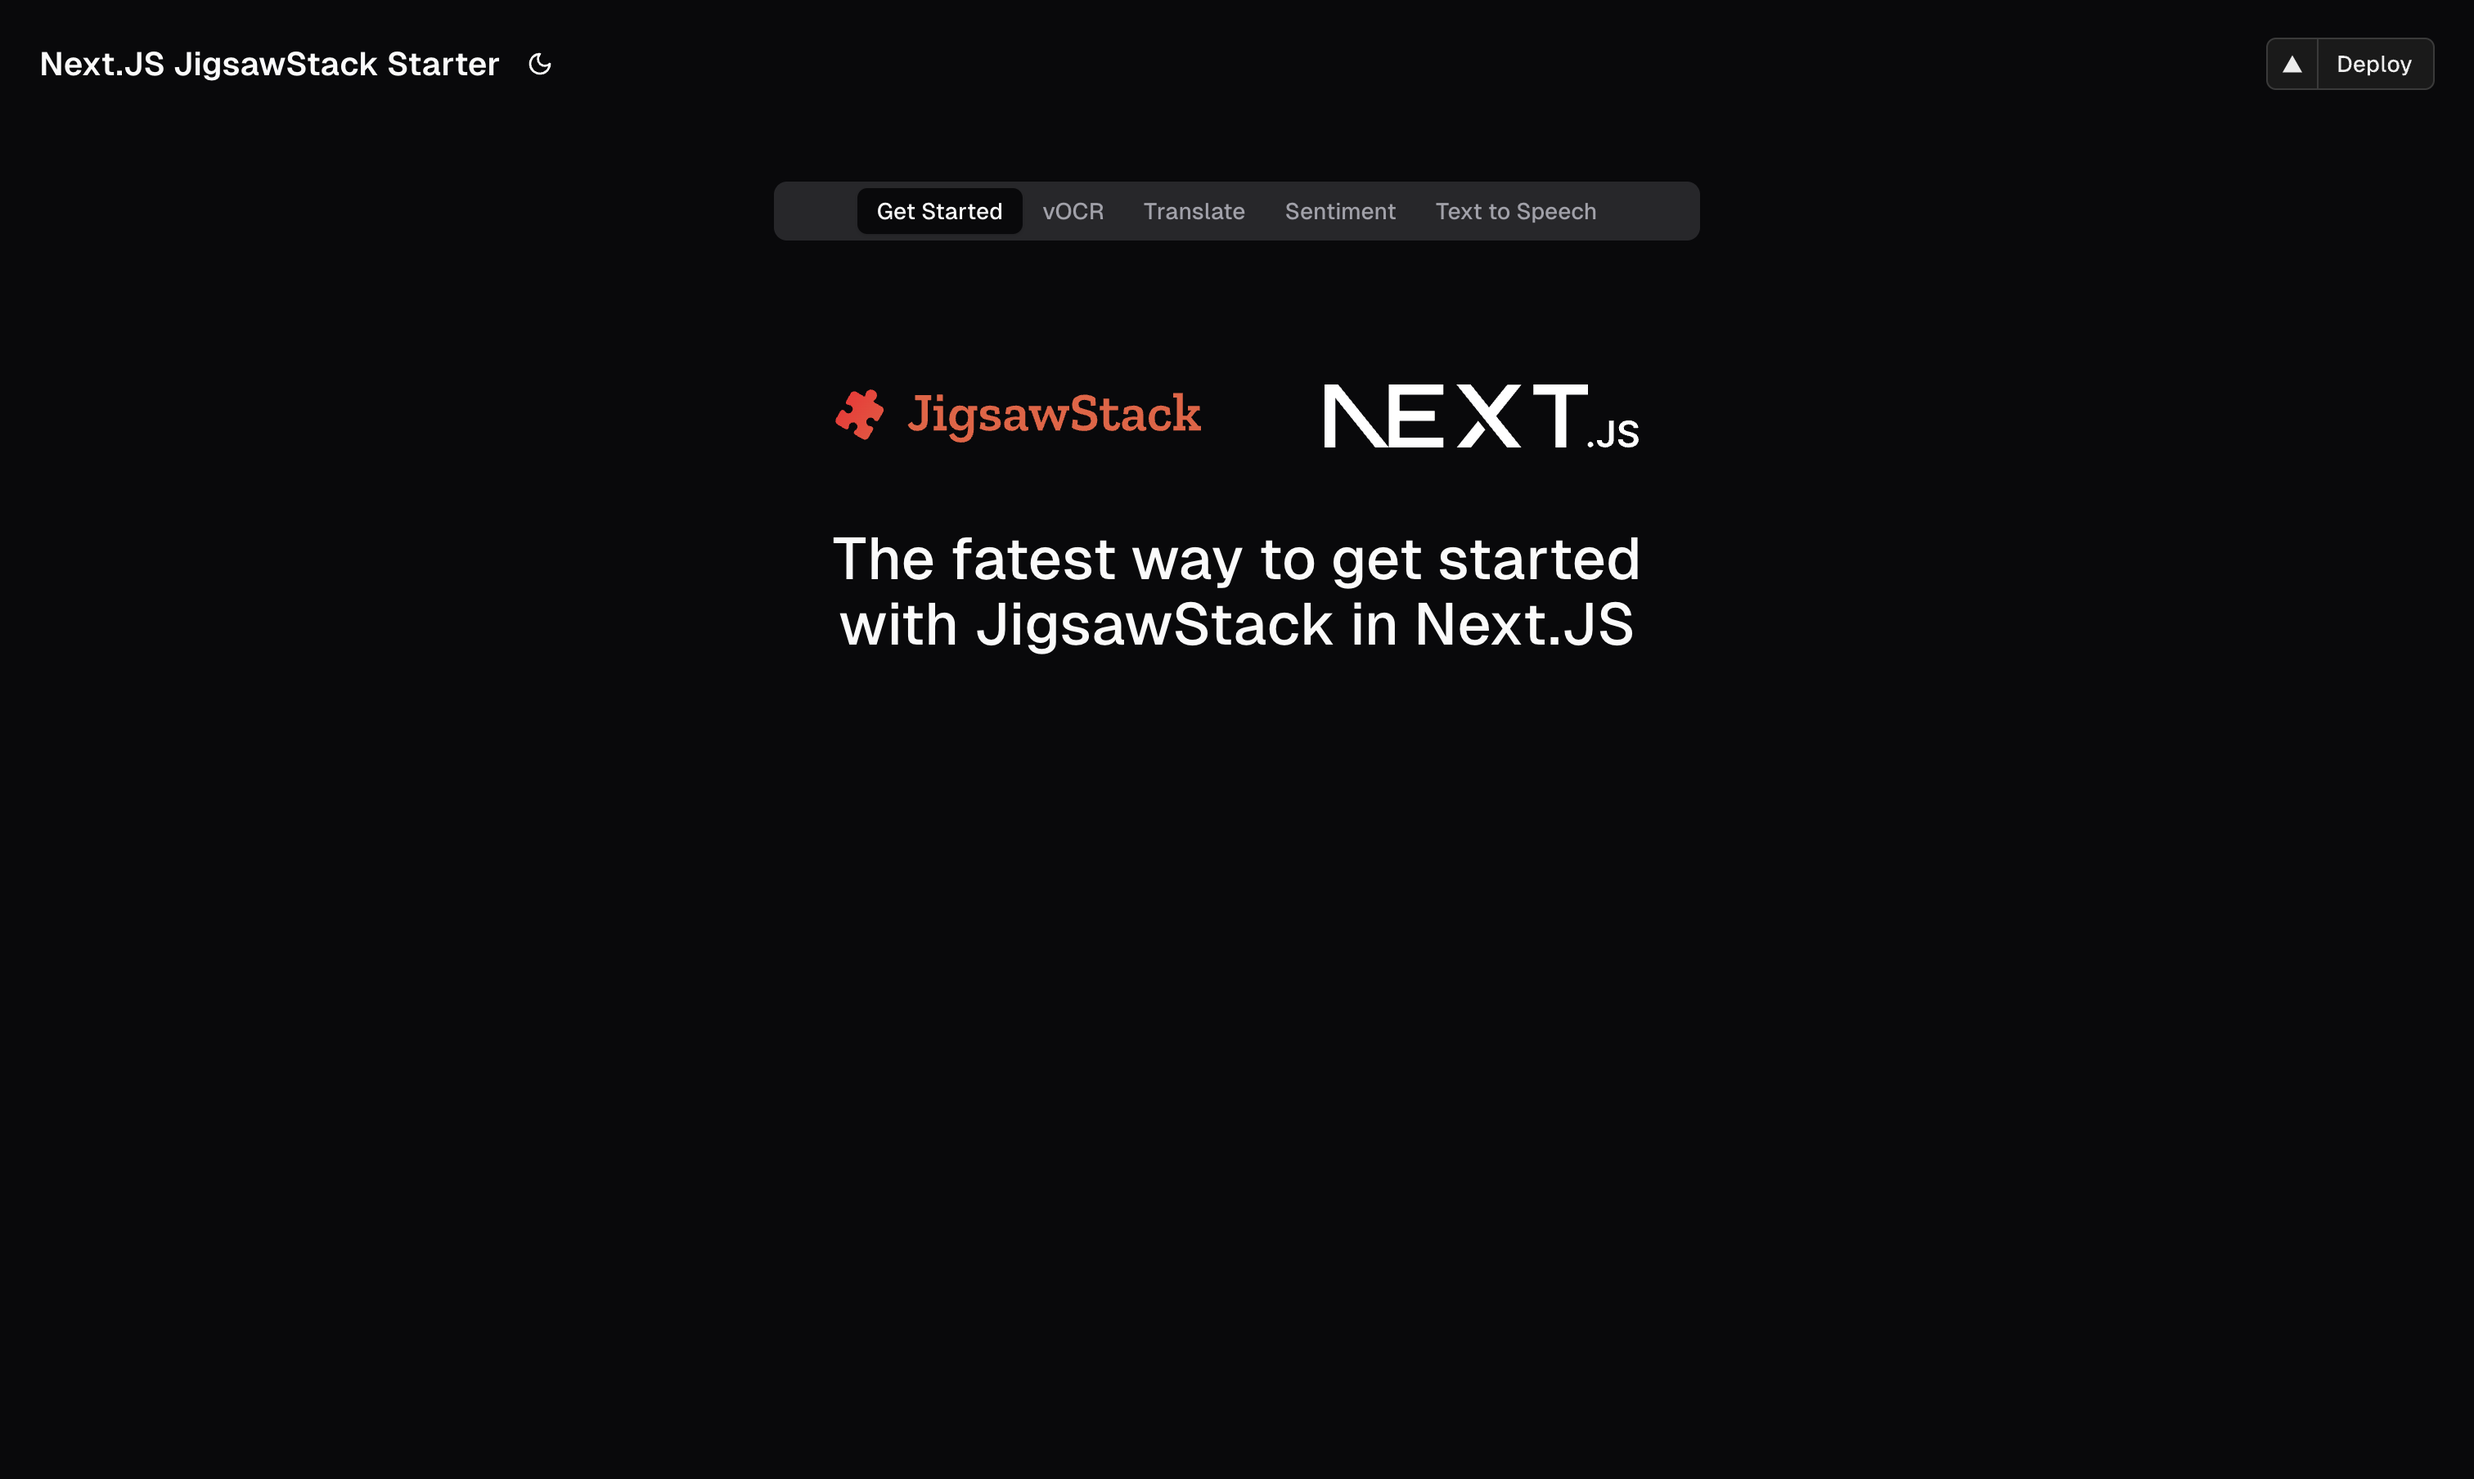
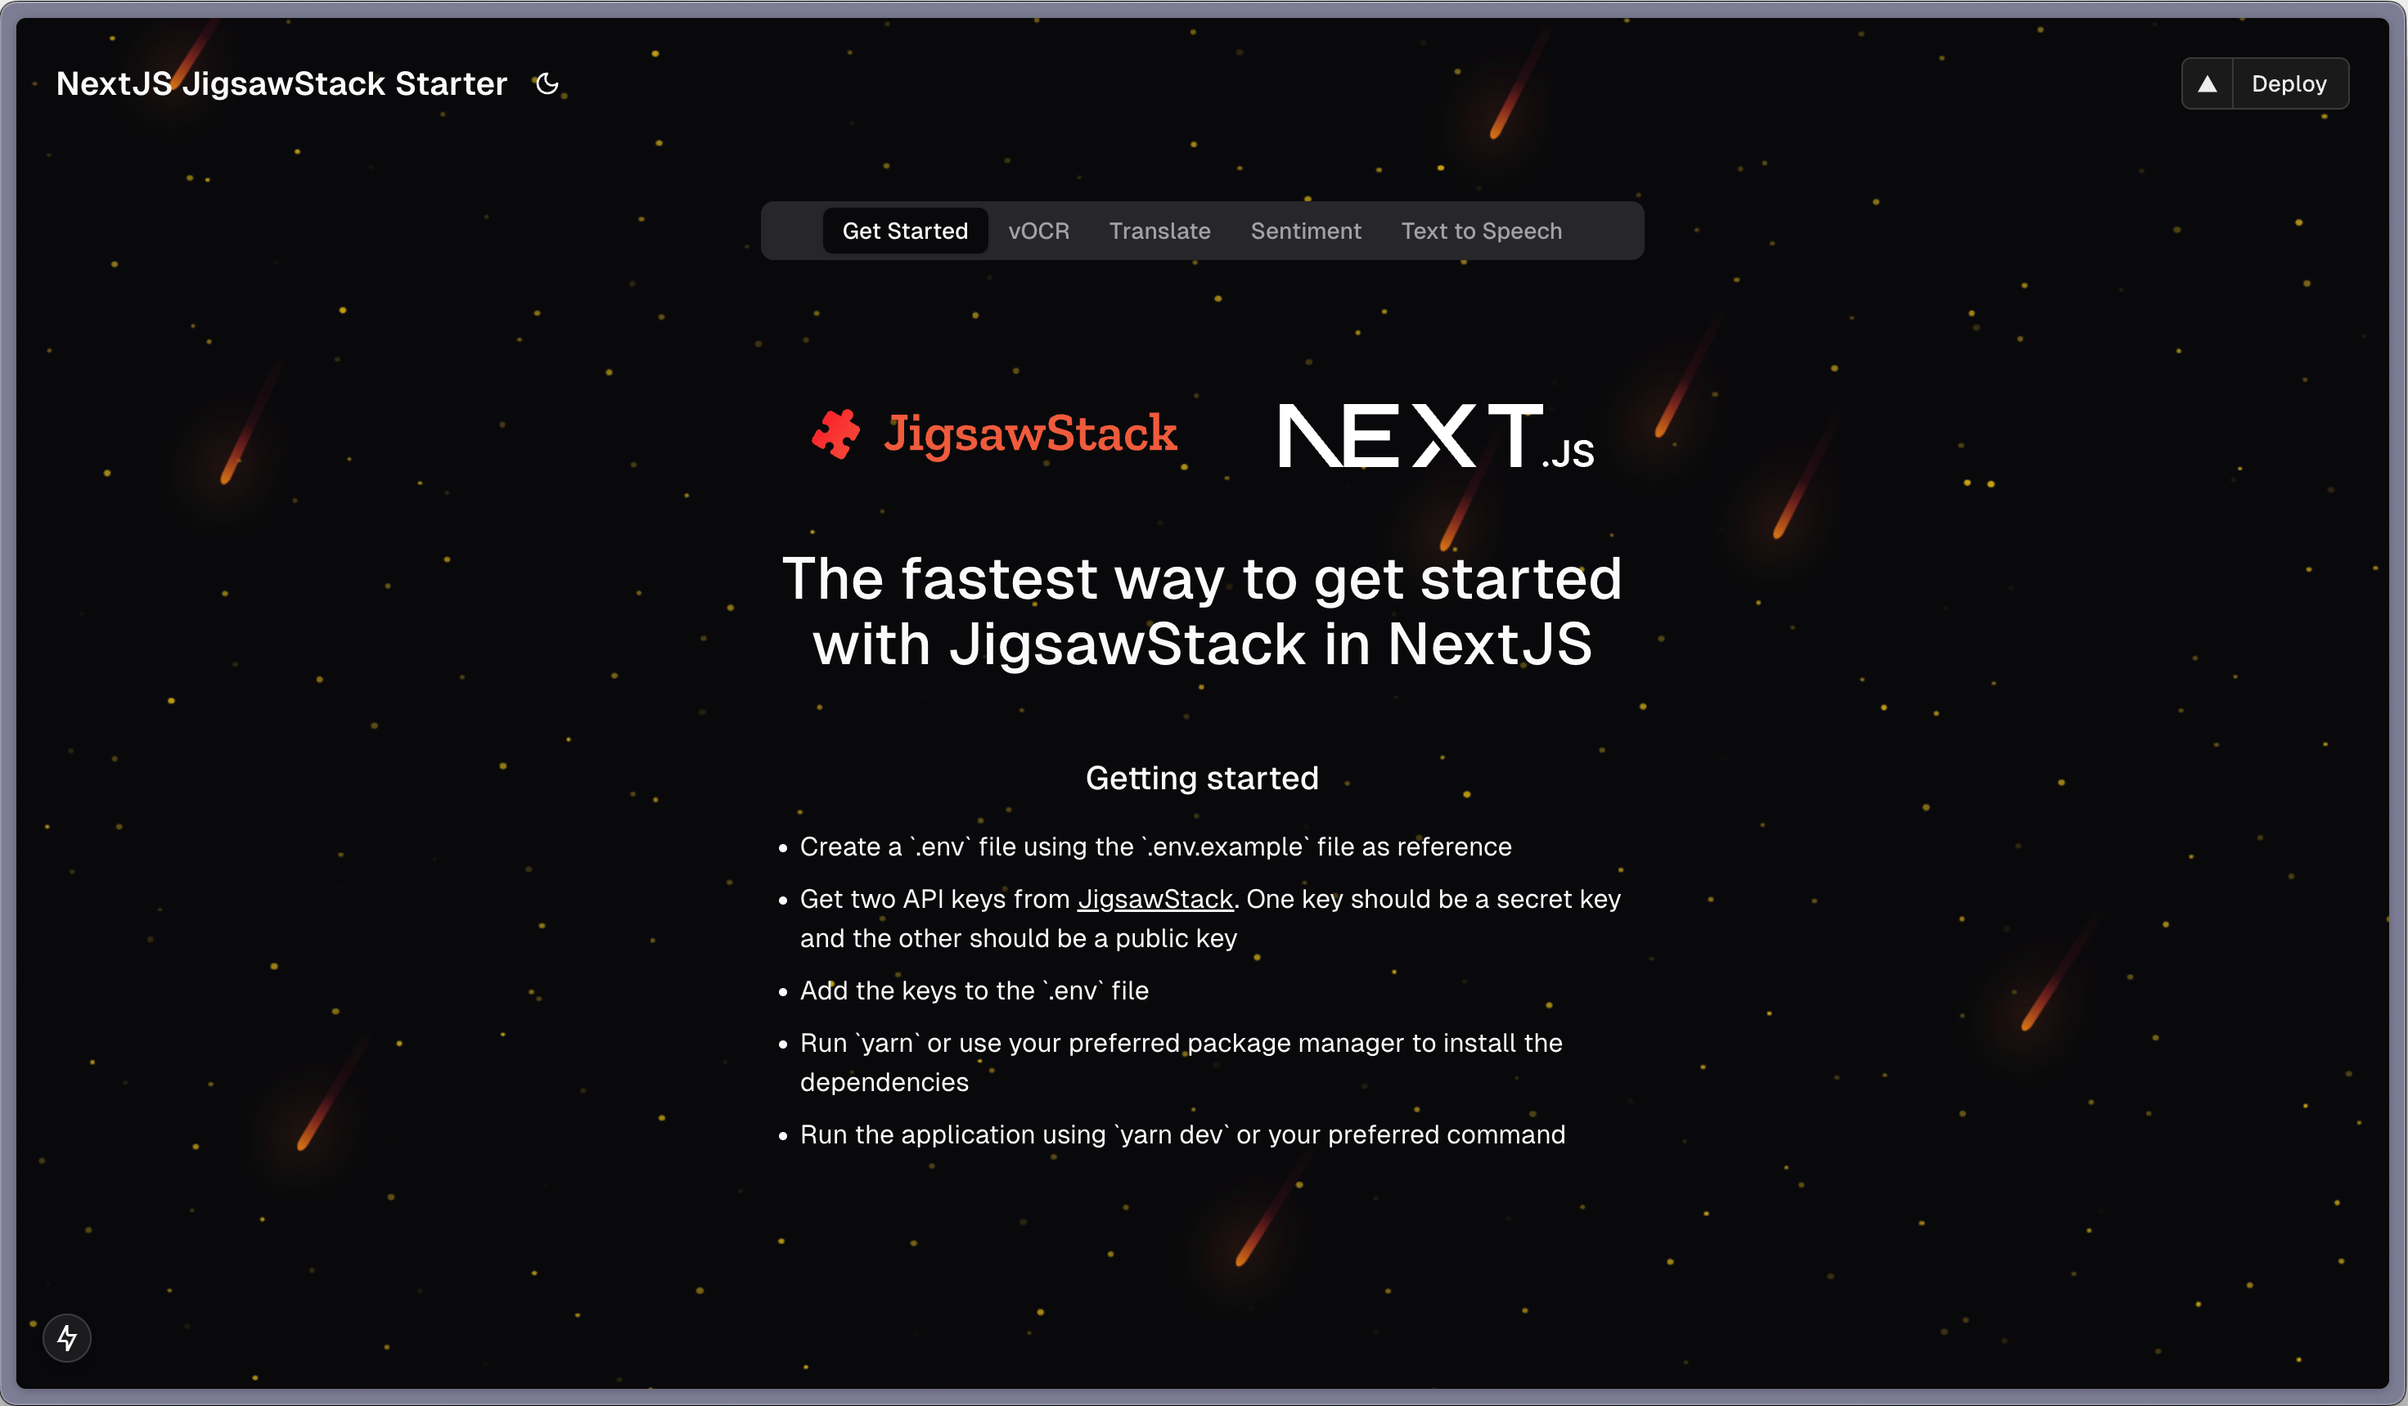
update wording

diff --git a/app/page.tsx b/app/page.tsx
@@ -7,11 +7,11 @@ import TTSExample from "@/components/examples/TTSExample";
 
 export default function Home() {
   return (
-    <div className="flex flex-col w-full min-h-screen font-[family-name:var(--font-geist-sans)]">
+    <div className="flex flex-col w-full min-h-screen font-[family-name:var(--font-geist-sans)] bg-[url('/bg.png')] bg-cover bg-center">
       {/* Header navigation */}
       <header className="flex justify-between items-center p-4 lg:p-6">
         <div className="flex items-center">
-          <h1 className="text-md lg:text-xl font-semibold mr-2">Next.JS JigsawStack Starter</h1>
+          <h1 className="text-md lg:text-xl font-semibold mr-2">NextJS JigsawStack Starter</h1>
           <ColorModeToggle />
         </div>
         <a href="https://vercel.com/new/clone?repository-url=https%3A%2F%2Fgithub.com%2FJigsawStack%2Fjigsawstack-vercel-template&env=NEXT_PUBLIC_JIGSAWSTACK_PUBLIC_KEY">

diff --git a/README.md b/README.md
@@ -1,8 +1,9 @@
 # [JigsawStack Next.js Starter](https://www.jigsawStack.com)
 
 
-This project leverages JigsawStack's AI SDK to help you achieve the following:
+This is a simple starter template that integrates JigsawStack's AI SDK with the NextJS 15 using the app router and more.
 
+The template includes the following examples making it easy to get started:
 - vOCR: Extracts information from images with advanced optical character recognition (OCR).
 - Sentiment Analysis: Analyzes text to determine its sentiment and emotion.
 - Translation: Translates text into the desired target language.
